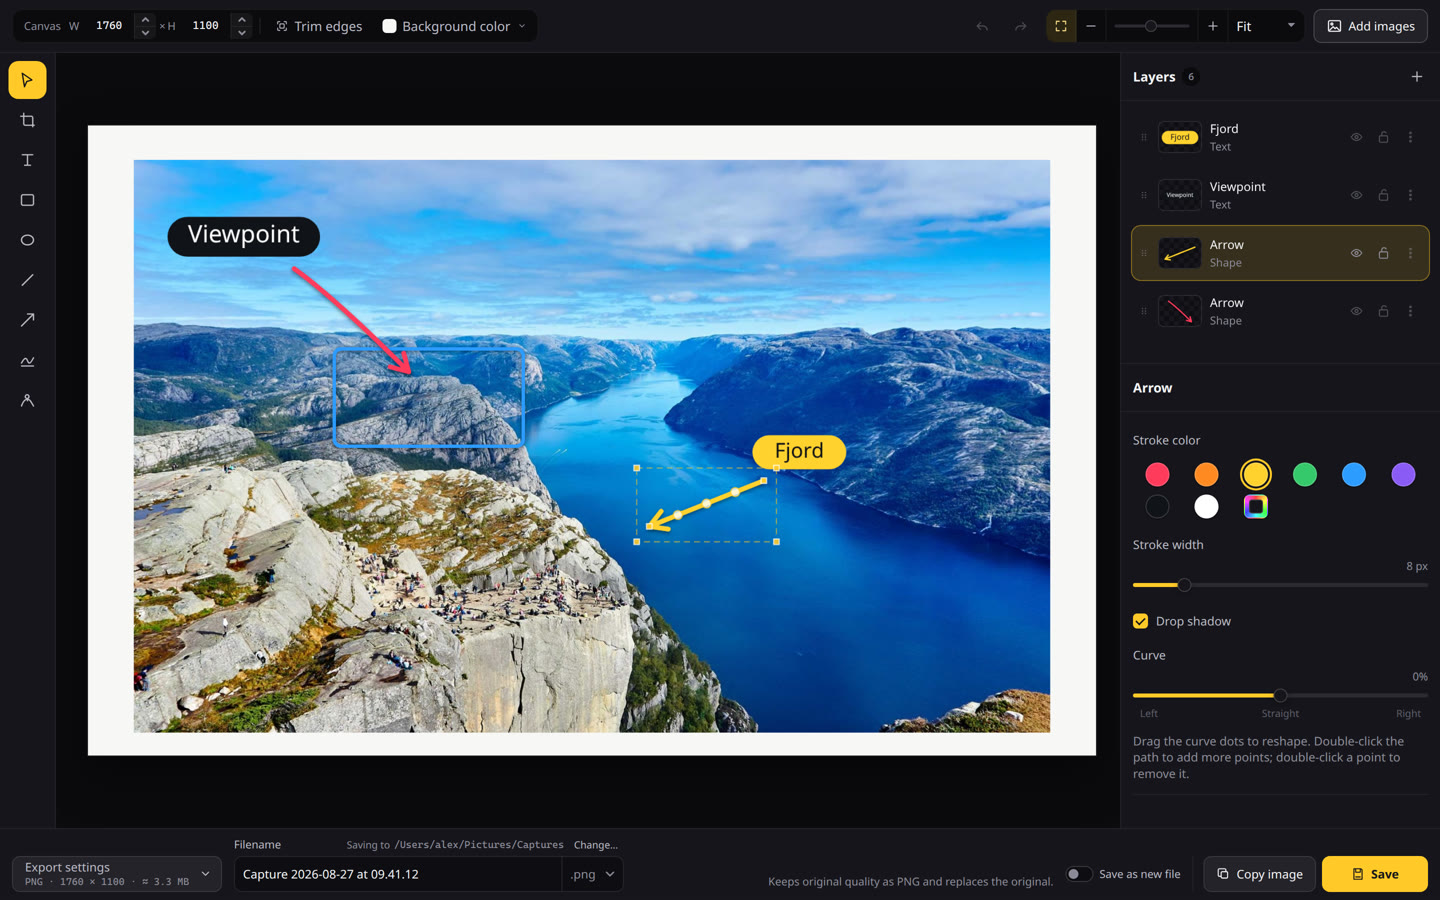
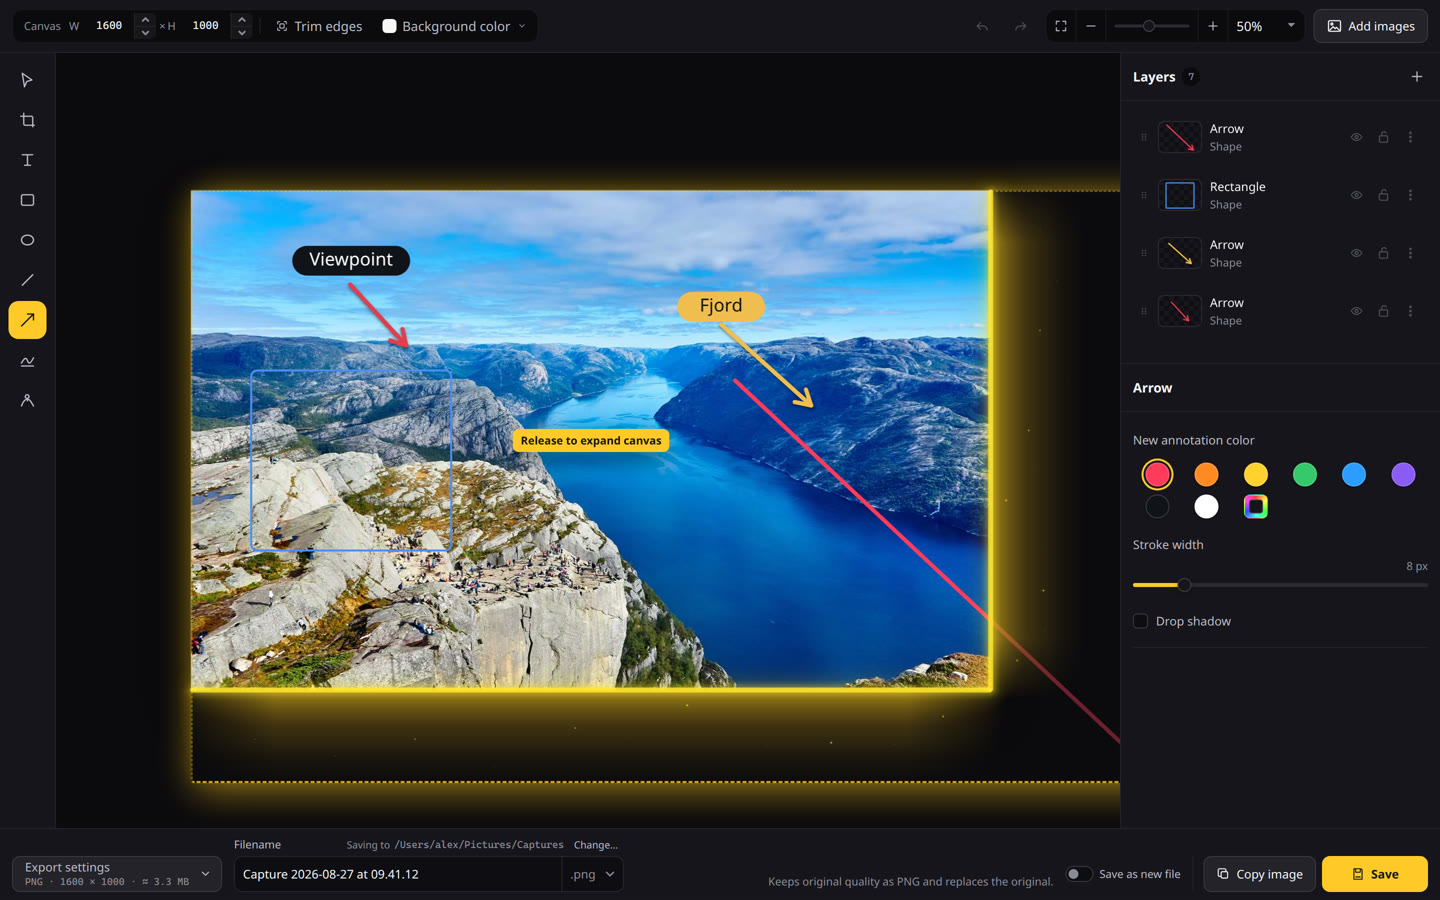
Show canvas expand with edge particles in the editor still.
The homepage screenshot editor shot now captures the live
Release to expand canvas preview, with an arrow dragged past
the edge and the particle stream on the new bounds.

diff --git a/apps/web/src/productShots.ts b/apps/web/src/productShots.ts
@@ -28,8 +28,8 @@ export const PRODUCT_SHOTS = [
     width: 1440,
     height: 900,
     title: "Edit screenshots",
-    description: "Text, arrows, and other annotations, plus canvas controls and flexible export.",
-    alt: "Captures screenshot editor annotating a landscape with text labels, arrows, and an expanded canvas",
+    description: "Text, arrows, and other annotations. Drag past an edge to grow the canvas.",
+    alt: "Captures screenshot editor annotating a landscape, with an arrow dragged past the canvas edge to expand it",
   },
   {
     id: "video-editor",

diff --git a/README.md b/README.md
@@ -20,9 +20,9 @@ Click and drag a region like other screenshot tools, or pick a window or full di
 <table>
   <tr>
     <td width="50%">
-      <img src="docs/images/screenshot-editor.jpg" alt="Captures screenshot editor annotating a landscape with text labels, arrows, and an expanded canvas" width="100%">
+      <img src="docs/images/screenshot-editor.jpg" alt="Captures screenshot editor annotating a landscape, with an arrow dragged past the canvas edge to expand it" width="100%">
       <br>
-      <sub><strong>Edit screenshots</strong> with text, arrows, canvas controls, and flexible export options.</sub>
+      <sub><strong>Edit screenshots</strong> with text, arrows, and a canvas that grows when you drag past the edge.</sub>
     </td>
     <td width="50%">
       <img src="docs/images/video-editor.jpg" alt="Captures video editor with a landscape preview, crop handles, trimming timeline, and save controls" width="100%">
